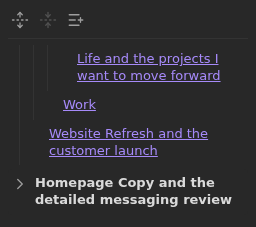
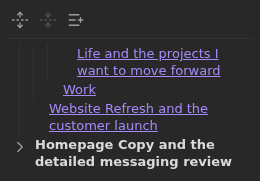
feat: dense tree

diff --git a/features/views-tree/wdio.ts b/features/views-tree/wdio.ts
@@ -57,6 +57,7 @@ async function openTree() {
 }
 
 async function expectWrappedTitles() {
+  const wrappedNames = [ROOT, CURRENT, LONG_CHILD, UNBROKEN];
   const geometry = await browser.execute(
     (names) => {
       const tree = document.querySelector<HTMLElement>(".eye-note-tree")!;
@@ -86,6 +87,13 @@ async function expectWrappedTitles() {
           }
         }
         const bounds = title.getBoundingClientRect();
+        const rowStyle = getComputedStyle(row);
+        const textHeight =
+          lines.size * parseFloat(getComputedStyle(title).lineHeight);
+        const entryHeight =
+          row.getBoundingClientRect().height +
+          parseFloat(rowStyle.marginTop) +
+          parseFloat(rowStyle.marginBottom);
         return {
           name,
           text: title.textContent,
@@ -98,15 +106,19 @@ async function expectWrappedTitles() {
           ),
           rowVisible: row.getClientRects().length > 0,
           panelFits: tree.scrollWidth <= tree.clientWidth + 1,
+          dense: entryHeight <= textHeight + 6,
           toggleCount: row.querySelectorAll("button").length,
         };
       });
     },
-    [ROOT, CURRENT, LONG_CHILD, UNBROKEN],
+    [...wrappedNames, CONTEXT, CHILD_A, GRANDCHILD_B],
   );
   for (const item of geometry) {
     expect(item.text).toBe(item.name);
-    expect(item.lineCount).toBeGreaterThan(1);
+    if (wrappedNames.includes(item.name))
+      expect(item.lineCount).toBeGreaterThan(1);
+    else expect(item.lineCount).toBe(1);
+    expect(item.dense).toBe(true);
     expect(item.aligned).toBe(true);
     expect(item.contained).toBe(true);
     expect(item.rowVisible).toBe(true);
@@ -156,7 +168,8 @@ export const { acceptanceScenarios, screenshotScenarios } = featureScenarios(
   {
     acceptance: [
       {
-        title: "shows full titles with aligned wrapping in a narrow panel",
+        title:
+          "shows full titles with aligned wrapping and dense spacing in a narrow panel",
         async run() {
           await openTree();
           await expectWrappedTitles();

diff --git a/styles.css b/styles.css
@@ -851,6 +851,11 @@
   box-shadow: none;
 }
 
+.eye-note-tree .eye-tree-toggle {
+  height: 20px;
+  padding-block: 1px;
+}
+
 .eye-note-tree button:focus-visible {
   outline: 2px solid var(--interactive-accent);
   outline-offset: -2px;
@@ -865,7 +870,7 @@
   display: flex;
   align-items: flex-start;
   gap: 3px;
-  padding-block: 3px;
+  padding-block: 1px;
   padding-inline-start: calc(var(--eye-tree-depth) * 14px);
   border-radius: var(--radius-s, 4px);
 }
@@ -891,7 +896,7 @@
 }
 
 .eye-tree-row.is-current {
-  margin-block: 4px;
+  margin-block: 1px;
   background: var(--background-secondary);
 }
 
@@ -902,7 +907,6 @@
 .eye-tree-title {
   flex: 1;
   min-width: 0;
-  padding-block: 3px;
   overflow-wrap: anywhere;
   white-space: normal;
 }
